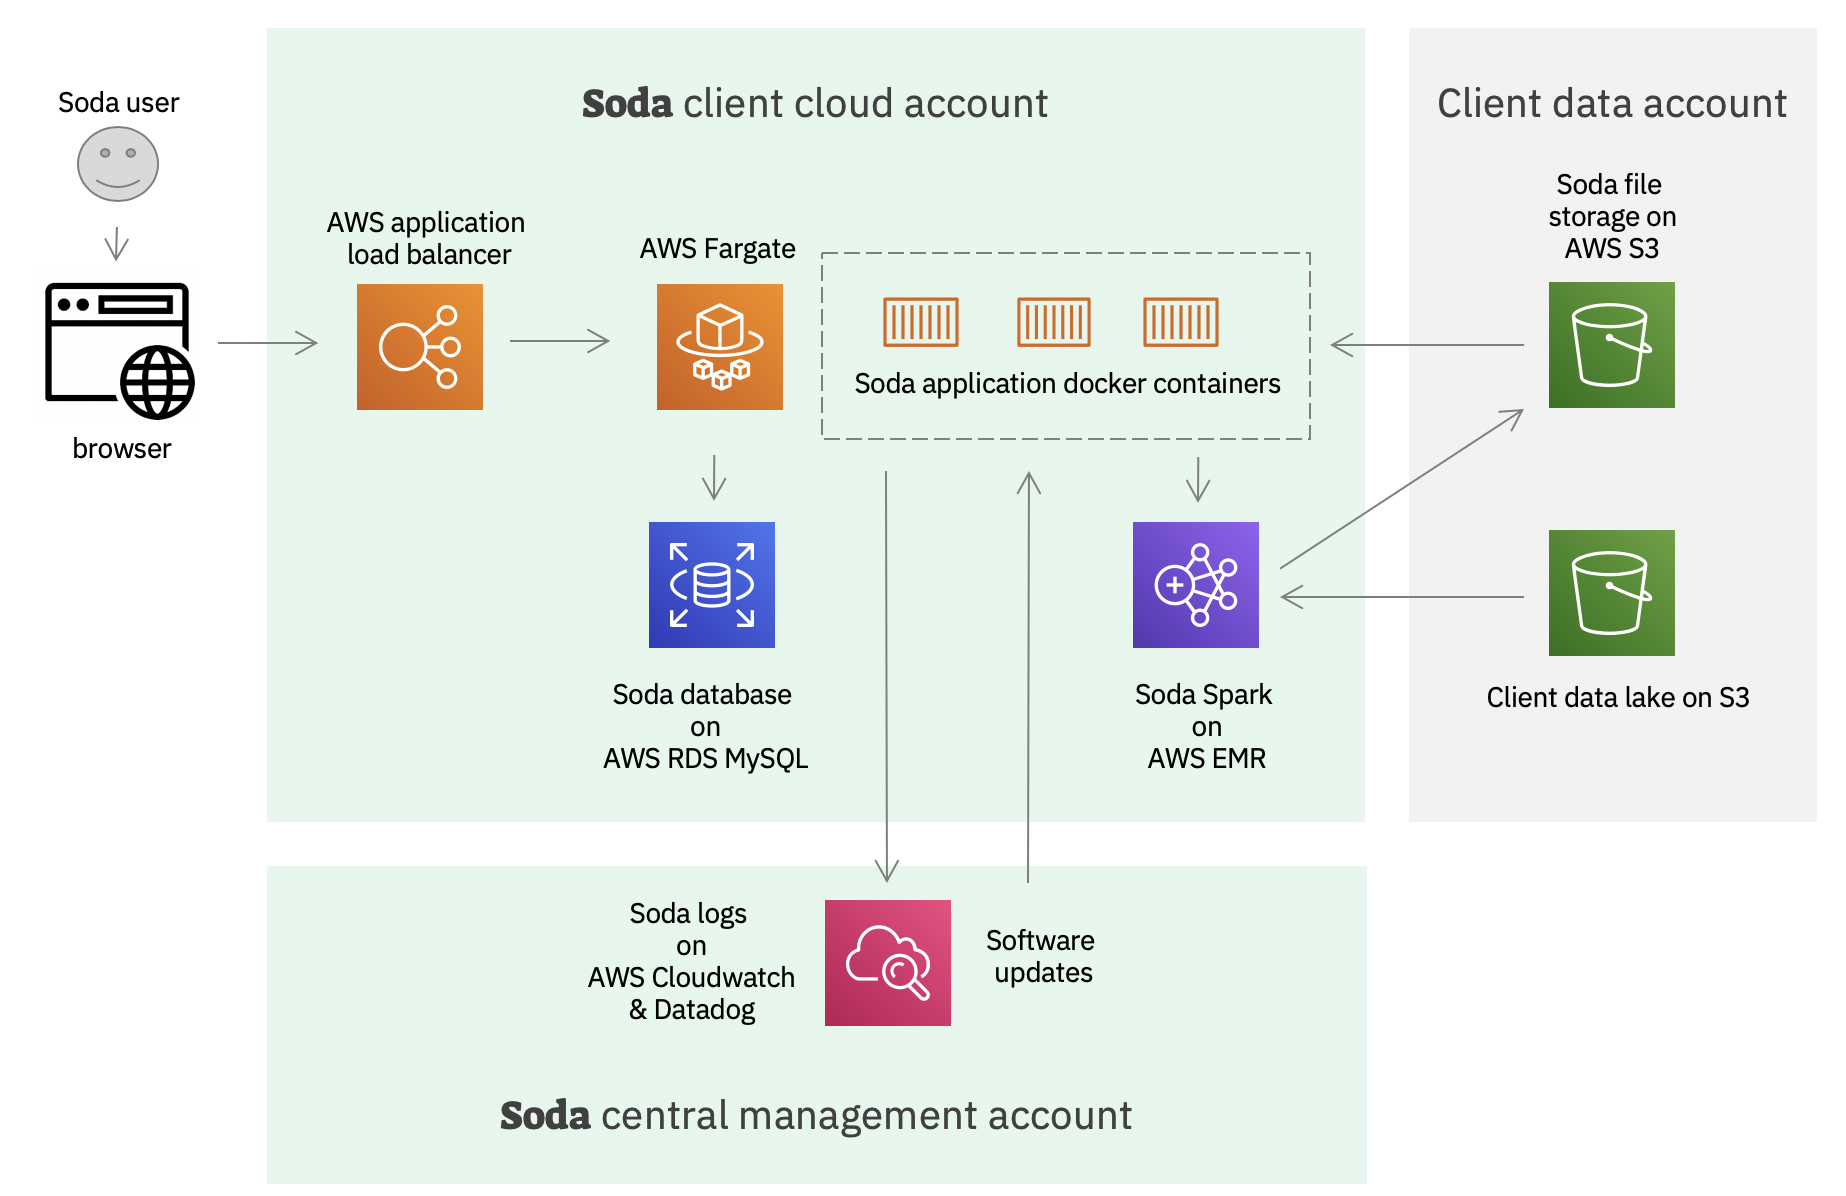
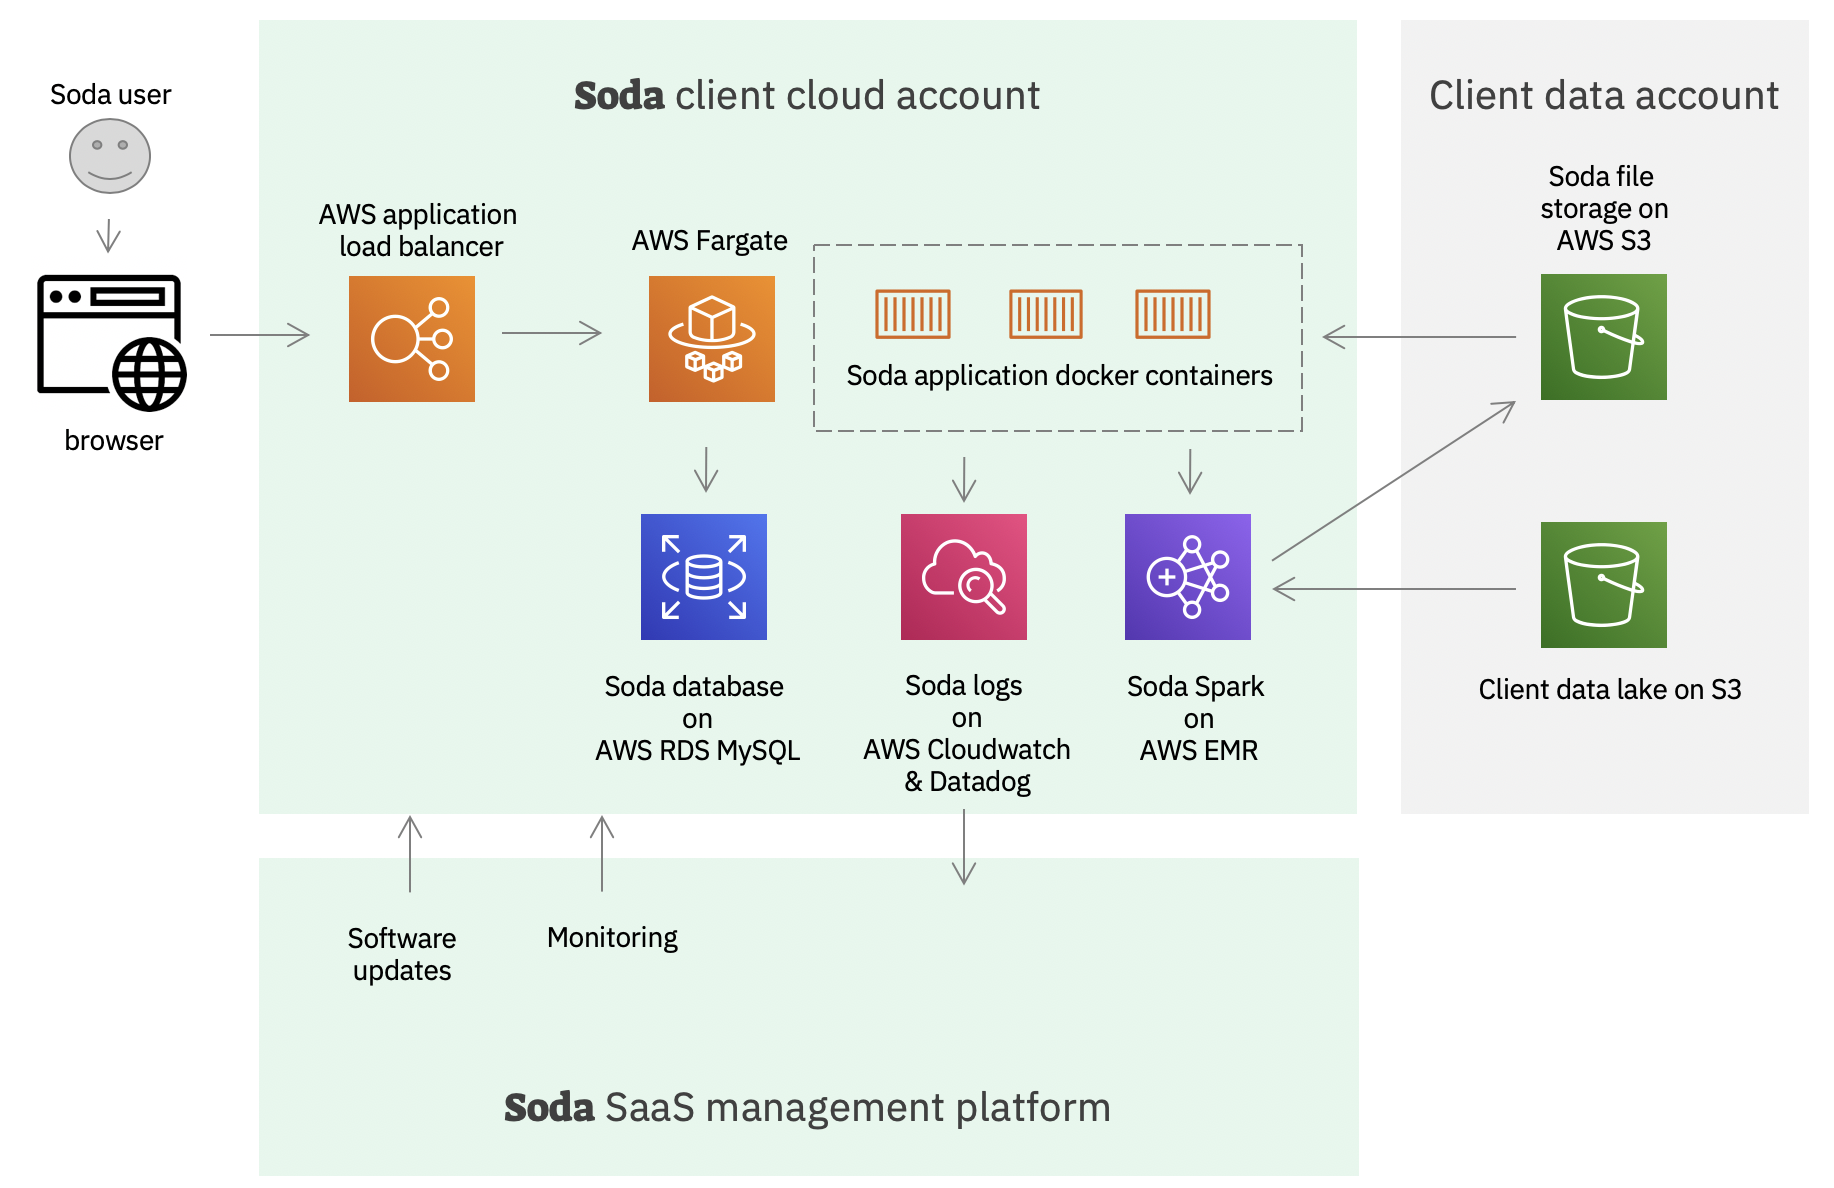
First version of the technical docs

diff --git a/pages/soda-on-aws.md b/pages/soda-on-aws.md
@@ -1,5 +1,19 @@
 # Soda on AWS
 
-Installation is done with Terraform script.
-
 ![Architecture](img/aws-overview.png)
+
+### The Soda client account
+
+The Soda client account is under control of the client.  It's typically a 
+new, separate AWS account that is created to deploy the Soda software.
+
+We install the full Soda software stack with a Terraform script.
+
+### The Client data account
+
+Typically the client data account is more locked down.  
+
+### The Soda SaaS management account
+
+The Soda SaaS management account is a single account under the control of Soda.
+From here we manage all the Soda deployments like monitoring and pushing updates.
